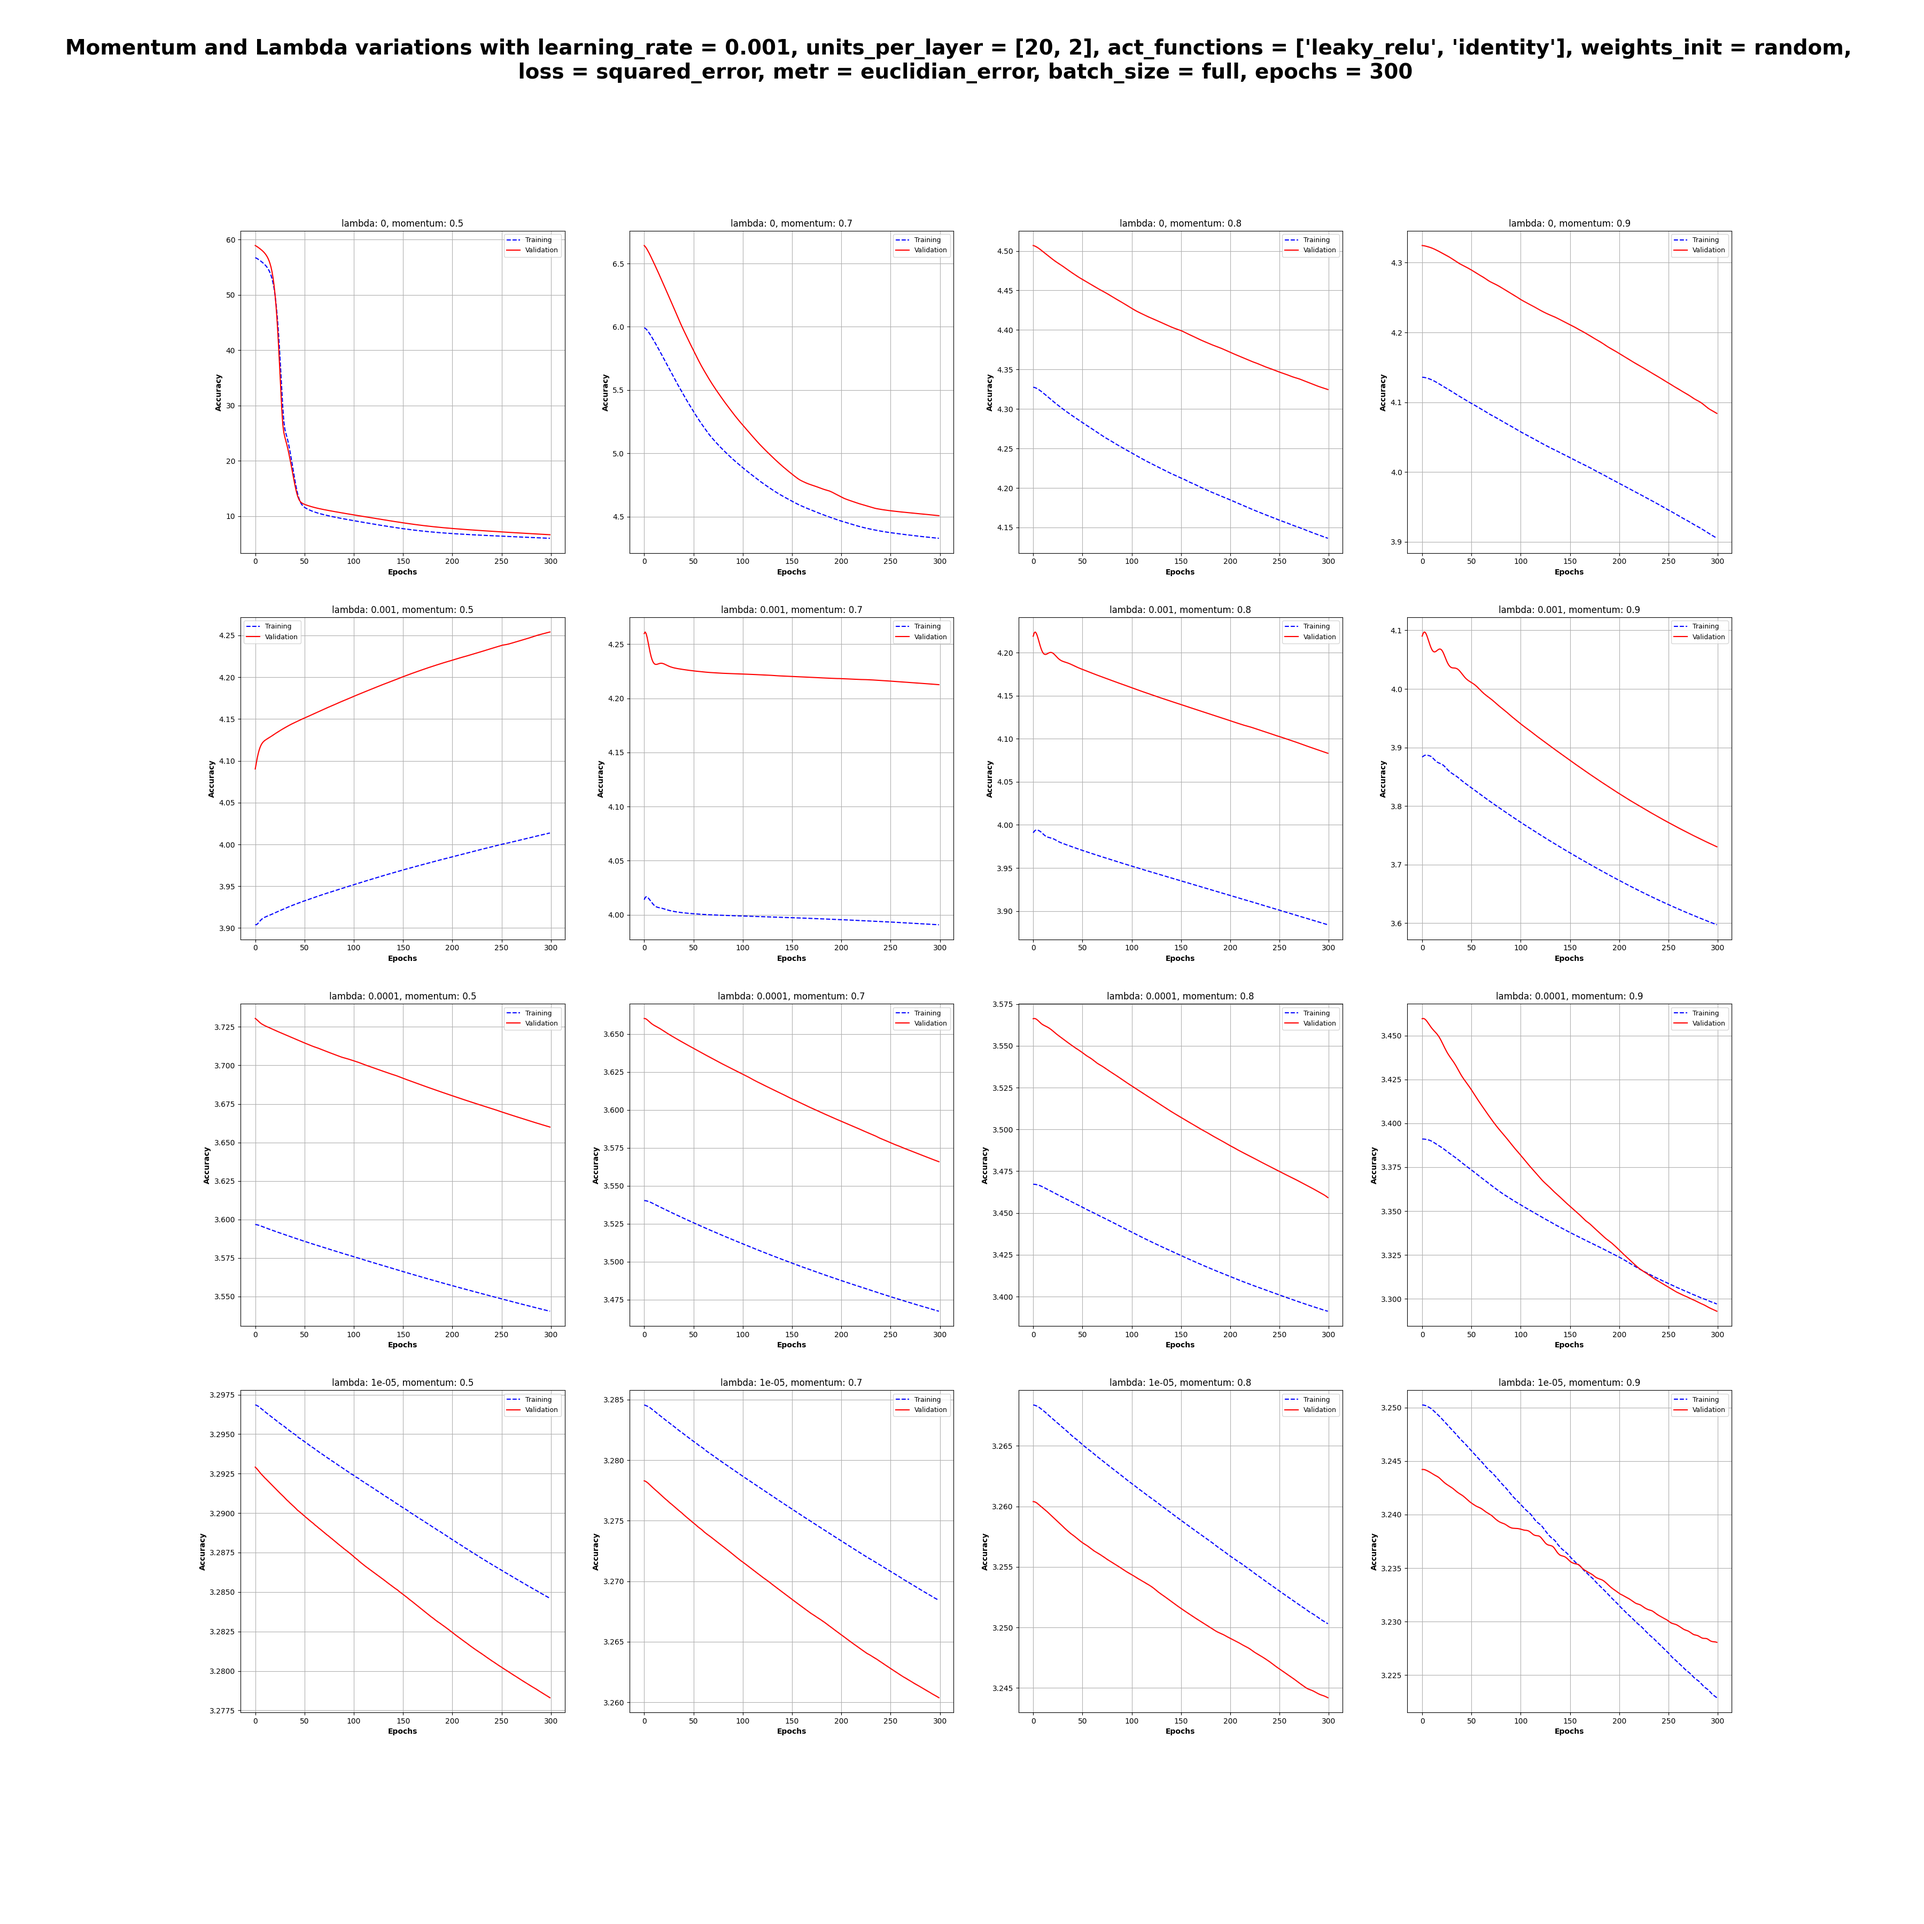
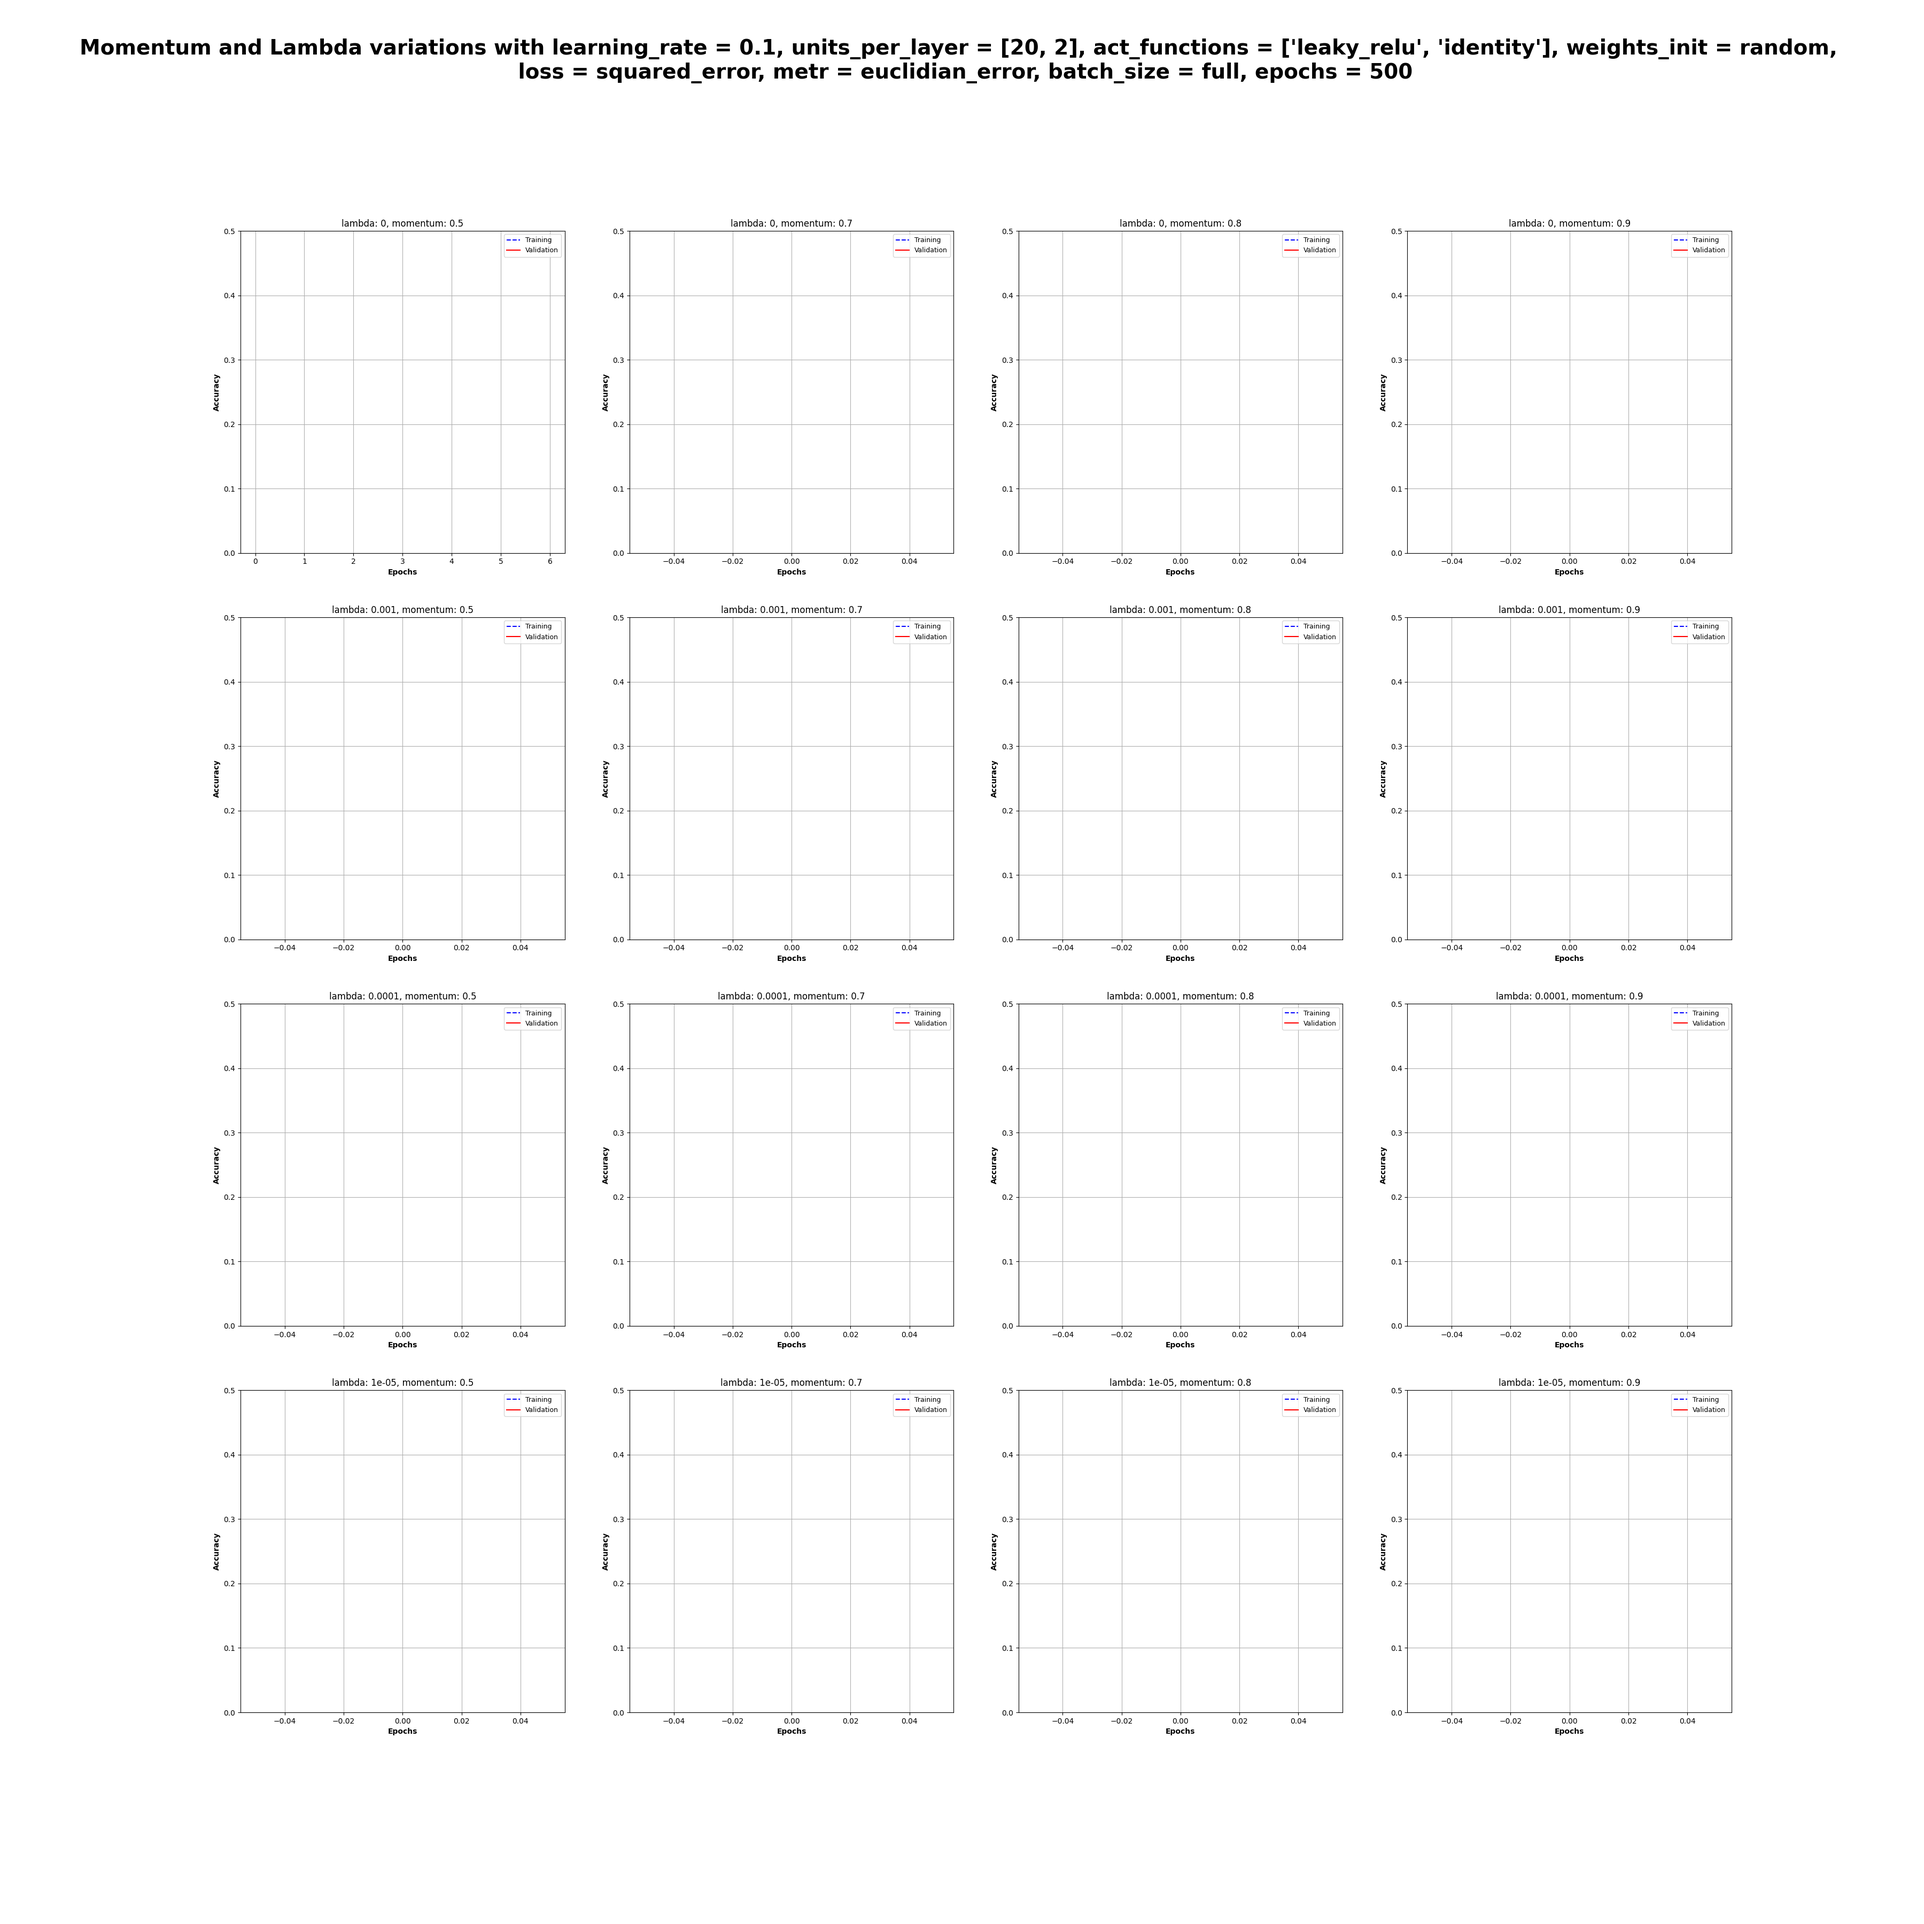
cup screening

Changed region(s): [[0.4356, 0.0, 0.9022, 0.0311], [0.1867, 0.0, 0.4044, 0.0311], [0.0311, 0.0, 0.0622, 0.0311]]

diff --git a/src/layer.py b/src/layer.py
@@ -74,7 +74,7 @@ class Layer:
 
         """
         self._inputs = inp # (numpy ndarray) input vector
-        self._nets = np.matmul(inp, self.weights) #  use'numpy.dot' to perform dot product of two arrays. Buth if both are 2-D arrays it is matrix multiplication and using 'matmul' or 'a@b' is preferred.
+        self._nets = np.dot(inp, self.weights) #  use'numpy.dot' to perform dot product of two arrays. Buth if both are 2-D arrays it is matrix multiplication and using 'matmul' or 'a@b' is preferred.
         self._nets = np.add(self._nets, self.biases)
         self._outputs = self._act(self._nets)
         return self._outputs #the vector of the current layer's outputs

diff --git a/src/model_selection_monk_test.py b/src/model_selection_monk_test.py
@@ -18,6 +18,7 @@ if __name__ == '__main__':
                  'batch_size': ('full',),
                  'lr': (0.001, 0.0001),
                  'lambda_': (0, 0.001, 0.0001, 0.00001),
+                 'reg_type': ('lasso', 'ridge_regression'),
                  'error_func': ('squared_error',),
                  'metr': ('binary_class_accuracy',),
                  'epochs': (500,)}

diff --git a/src/screening-phase-cup.py b/src/screening-phase-cup.py
@@ -16,7 +16,7 @@ if __name__ == '__main__':
     # reg_type = 'lasso'  # default regularization type is Tikhonov
     batch_size = 'full' # try out batch sizes in powers of 2 (for better memory optimization) based on the data-size
     epochs = 500
-    lr = 0.001
+    lr = 0.7
     momentum_val = [0.5, 0.7, 0.8, 0.9]
     lambda_val = [0, 0.001, 0.0001, 0.00001]
 

diff --git a/src/metrics.py b/src/metrics.py
@@ -1,7 +1,5 @@
 import numpy as np
 
-# TODO maybe also add euclidian error as a metric
-
 class Metric:
 
     @staticmethod
